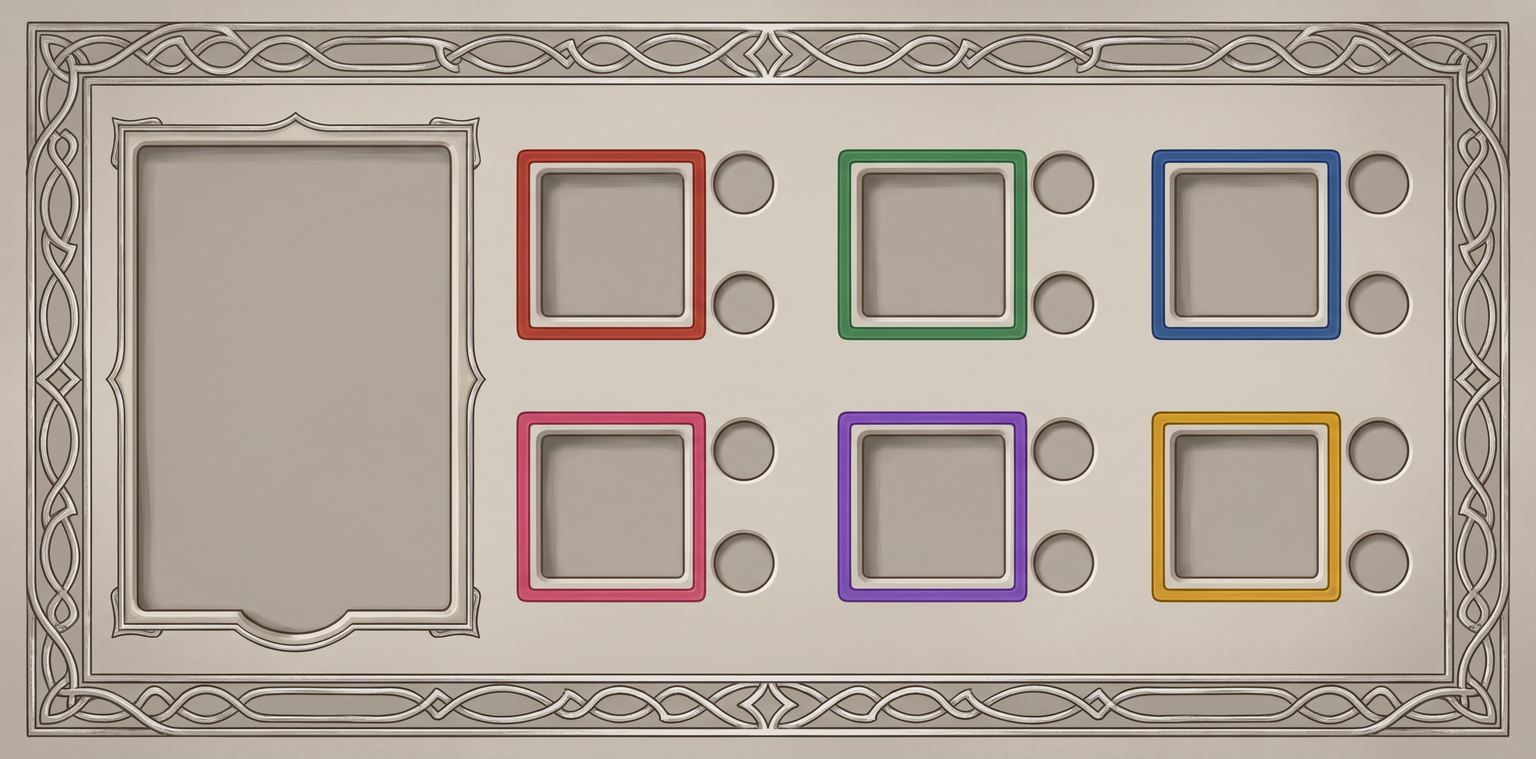
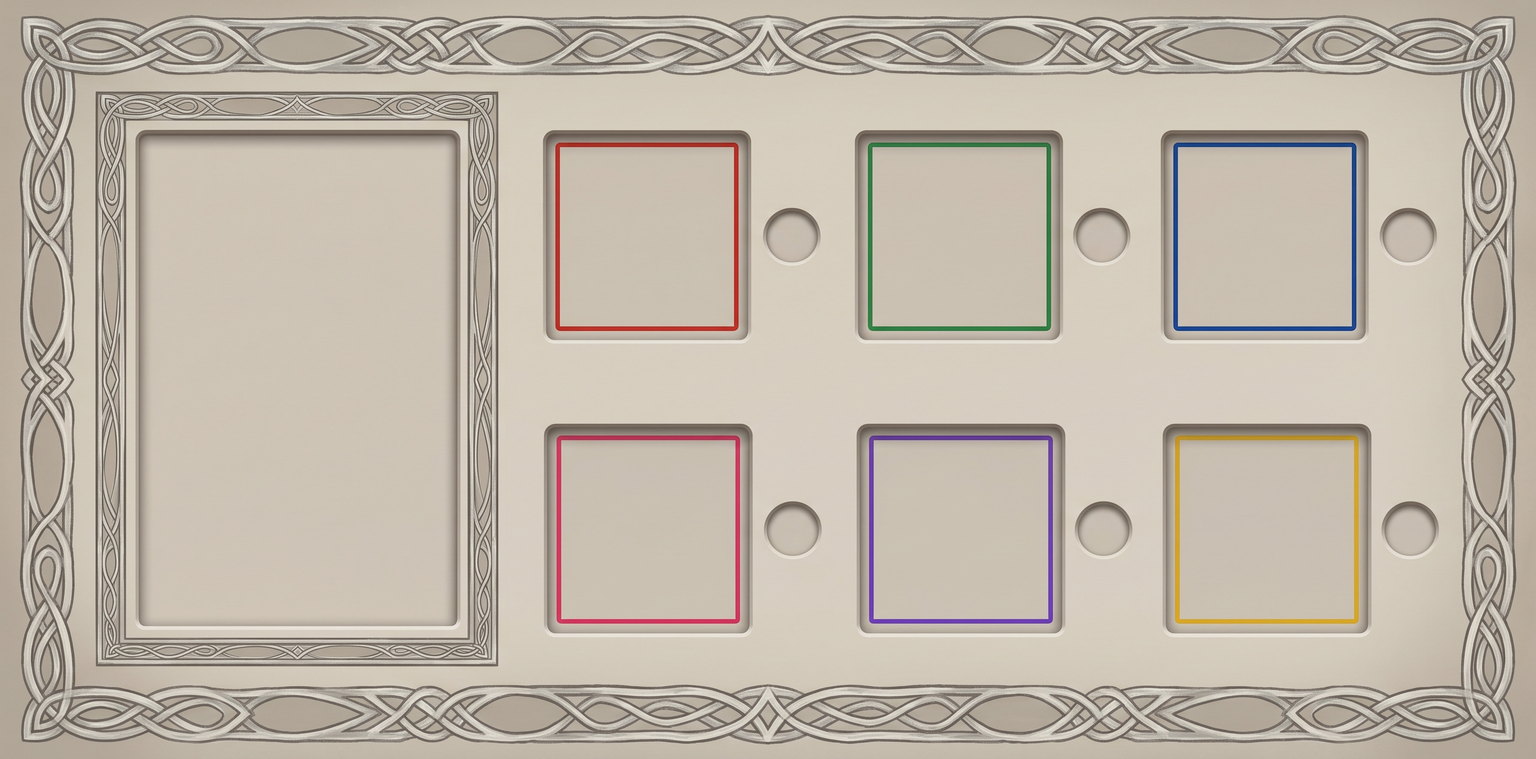
Rifà la Plancia Giocatore: icone sopra i dadi (non dentro), segnalini su/giù, scala reale
Con la board ridisegnata, le icone statistica ora stanno SOPRA ogni
casella invece che dentro: dentro ci va il dado fisico vero, e
prima l'icona sarebbe rimasta coperta. Posizioni ri-misurate per
colore sulla nuova immagine.

Scala di stampa ricavata dalle misure reali fornite (carta = formato
Poker 63,5mm, dado = 1,5cm lato) invece che da "quanto ci sta comodo
in un foglio": misurato lo slot carta sull'immagine (~650px di
larghezza) e forzato a corrispondere a 63,5mm. A questa scala la
board viene ~284,5x140,7mm — non entra in un A4 verticale ma sì in
uno ORIZZONTALE (297x210mm): 1 sola plancia a foglio invece delle 2
del giro precedente, che non teneva conto delle dimensioni fisiche
reali di carta/dado.

Aggiunta la stampa dei segnalini (da segnalini.jpg, frecce su/giù):
12 + 12, ritagliati a cerchio e dimensionati (10,5mm) per entrare nel
cerchio-slot accanto a ogni dado sulla plancia.

diff --git a/cardgen/render-plancia.js b/cardgen/render-plancia.js
@@ -1,10 +1,19 @@
 // Plancia Giocatore: un'unica board generica (non per classe — la carta Classe fisica si
 // posa nello slot a sinistra durante la partita), con le 6 caselle dado già colorate
-// dall'utente sovrapposte di icona+etichetta statistica. Le due posizioni delle caselle
-// (misurate per colore via canvas su plancia_giocatore.jpg, in ordine di lettura come
-// l'array STATS del gioco: for,int,des / pv,san,anima) e la stessa palette dei dadi usata
-// nell'app dove esiste già (pv=rosso/--bad, san=viola/--arcane — coincidenza col disegno
-// dell'utente, per int/des/for/anima non c'era una convenzione preesistente).
+// dall'utente sovrapposte di icona statistica. L'icona sta SOPRA ogni casella (non dentro):
+// dentro ci va il dado fisico vero durante la partita, e ci coprirebbe qualunque cosa
+// stampata lì sotto. Ordine di lettura griglia 2x3 = stesso ordine dell'array STATS del
+// gioco (for,int,des poi pv,san,anima) — non c'era altra convenzione preesistente che
+// coprisse tutte e sei le statistiche.
+//
+// Scala reale: derivata dalla carta Classe (che va nello slot a sinistra), non dal dado —
+// misurato lo slot carta sull'immagine (~650x981px) e forzato a 63,5mm di LARGHEZZA (formato
+// Poker): usare l'altezza invece darebbe uno slot troppo STRETTO per la carta (non entra
+// affatto), mentre scalando sulla larghezza lo slot resta solo un po' più alto del dovuto —
+// difetto minore, la carta comunque ci sta. A questa scala la board viene ~284x141mm: non
+// entra in un A4 verticale, ma un A4 ORIZZONTALE sì (297x210mm) — 1 sola plancia a foglio,
+// a differenza delle 2 del giro precedente (quello non teneva conto delle dimensioni reali
+// di carta/dado, solo di "quanto ci sta comodo in un A4").
 //
 // Uso: node render-plancia.js
 
@@ -14,47 +23,48 @@ const { pathToFileURL } = require('url');
 const { chromium } = require('playwright');
 
 const SRC_IMG = path.join(__dirname, '..', 'assets', 'ui', 'plancia_giocatore.jpg');
+const SRC_TOKENS = path.join(__dirname, '..', 'assets', 'ui', 'segnalini.jpg');
 const OUT_DIR = path.join(__dirname, '..', 'cards_final', 'plancia');
+const PRINT_DIR = path.join(__dirname, '..', 'cards_final', 'print');
 const W = 2912, H = 1440;
 
 const STAT_ICON = { for: '💪', int: '🧠', des: '🏃', pv: '❤', san: '🌀', anima: '🕯' };
-const STAT_LABEL = { for: 'Forza', int: 'Intelletto', des: 'Destrezza', pv: 'Punti Vita', san: 'Sanità Mentale', anima: 'Anima' };
-// posizione delle 6 caselle, in % dell'immagine — griglia 2x3, stesso ordine di lettura
-// dell'array STATS del gioco (for,int,des poi pv,san,anima)
+// posizione delle 6 caselle (misurate via campionamento colore su plancia_giocatore.jpg),
+// griglia 2x3 nello stesso ordine di lettura dell'array STATS del gioco
 const SLOTS = [
-  { stat: 'for',   left: 33.58, top: 19.79 },
-  { stat: 'int',   left: 54.60, top: 19.79 },
-  { stat: 'des',   left: 75.00, top: 19.79 },
-  { stat: 'pv',    left: 33.58, top: 54.17 },
-  { stat: 'san',   left: 54.60, top: 54.17 },
-  { stat: 'anima', left: 75.00, top: 54.17 },
+  { stat: 'for',   cx: 1225.5, topEdge: 248 },
+  { stat: 'int',   cx: 1818,   topEdge: 251 },
+  { stat: 'des',   cx: 2397,   topEdge: 251 },
+  { stat: 'pv',    cx: 1228.5, topEdge: 806 },
+  { stat: 'san',   cx: 1822.5, topEdge: 806 },
+  { stat: 'anima', cx: 2401.5, topEdge: 806 },
 ];
-const SLOT_W = 12.36, SLOT_H = 24.79;
+const ICON_H = 62; // altezza icona in px nativi — sta nello stretto spazio sopra la riga 1
+
+// Scala reale: vedi commento in testa al file. Slot carta misurato ~650px di larghezza,
+// forzato a corrispondere a 63,5mm (formato Poker).
+const CARD_SLOT_W_PX = 650;
+const MM_PER_PX = 63.5 / CARD_SLOT_W_PX;
+const BOARD_W_MM = W * MM_PER_PX;
+const BOARD_H_MM = H * MM_PER_PX;
 
 function frontHtml() {
   const imgUrl = pathToFileURL(SRC_IMG).href;
-  const slotsHtml = SLOTS.map(s => `
-    <div class="slot" style="left:${s.left}%; top:${s.top}%; width:${SLOT_W}%; height:${SLOT_H}%;">
-      <div class="ic">${STAT_ICON[s.stat]}</div>
-      <div class="lbl">${STAT_LABEL[s.stat]}</div>
-    </div>`).join('');
+  const iconsHtml = SLOTS.map(s => `
+    <div class="ic" style="left:${s.cx}px; bottom:${H - s.topEdge + 4}px;">${STAT_ICON[s.stat]}</div>`).join('');
   return `<!doctype html><html><head><meta charset="utf-8">
-  <link rel="stylesheet" href="https://fonts.googleapis.com/css2?family=JetBrains+Mono:wght@600;700&display=swap">
   <style>
     *{box-sizing:border-box; margin:0; padding:0;}
     body{ width:${W}px; height:${H}px; position:relative; background:#000; }
     .board{ position:absolute; inset:0; width:100%; height:100%; }
-    .slot{ position:absolute; display:flex; flex-direction:column; align-items:center; justify-content:center; }
-    .ic{ font-size:78px; line-height:1; filter:drop-shadow(0 2px 4px rgba(0,0,0,.35)); }
-    .lbl{
-      margin-top:10px; font-family:'JetBrains Mono',monospace; font-weight:700; font-size:26px;
-      letter-spacing:.03em; text-transform:uppercase; color:#3a3228; text-align:center;
-      text-shadow:0 1px 0 rgba(255,255,255,.25);
+    .ic{
+      position:absolute; transform:translateX(-50%); font-size:${ICON_H}px; line-height:1;
+      filter:drop-shadow(0 1px 3px rgba(0,0,0,.4));
     }
   </style></head>
   <body>
     <img class="board" src="${imgUrl}">
-    ${slotsHtml}
+    ${iconsHtml}
   </body></html>`;
 }
 
@@ -102,29 +112,69 @@ function backHtml() {
   </body></html>`;
 }
 
-// Foglio di stampa: 2 plance per A4 verticale (impilate), non 4 — a piena larghezza utile
-// (200mm) la plancia verrebbe 200x98,9mm (stesso rapporto 2912:1440 dell'originale): già
-// così 2 ne entrano comode (197,8mm di altezza usata su 287 disponibili), a 4 per foglio
-// ognuna sarebbe larga solo ~100mm, troppo stretta per ospitare una carta poker (63,5mm)
-// più 6 caselle dado leggibili accanto.
-const PAGE_W_MM = 210, PAGE_H_MM = 297, MARGIN_MM = 5, GAP_MM = 5;
-const BOARD_W_MM = PAGE_W_MM - 2 * MARGIN_MM;
-const BOARD_H_MM = BOARD_W_MM * (H / W);
+// Segnalini: due icone (freccia doppia su/giù) ritagliate da segnalini.jpg (2048x2048,
+// sfondo nero) — stesso riquadro di ritaglio (670px) centrato su ciascuna, per una resa
+// visiva coerente fra i due. Il cerchio-slot accanto ai dadi misura ~10,5mm di diametro
+// alla scala della board: i segnalini vanno stampati a quella stessa dimensione.
+const TOKEN_RENDER_PX = 500; // risoluzione del master, non la dimensione di stampa
+const TOKEN_CROP = 670;
+const TOKEN_MM = 10.5;
+const TOKENS = {
+  up:   { center: [664.5, 1026] },
+  down: { center: [1378.5, 1023] },
+};
 
-function printSheetHtml(imgFile) {
-  const url = pathToFileURL(imgFile).href;
-  const totalH = 2 * BOARD_H_MM + GAP_MM;
-  const topOffset = MARGIN_MM + (PAGE_H_MM - 2 * MARGIN_MM - totalH) / 2;
-  const cells = [0, 1].map(i => `
-    <div class="cell" style="top:${topOffset + i * (BOARD_H_MM + GAP_MM)}mm; left:${MARGIN_MM}mm; width:${BOARD_W_MM}mm; height:${BOARD_H_MM}mm;">
-      <img src="${url}">
-      <i class="crop tl"></i><i class="crop tr"></i><i class="crop bl"></i><i class="crop br"></i>
+function tokenHtml(key) {
+  const t = TOKENS[key];
+  const bgSize = 2048 * (TOKEN_RENDER_PX / TOKEN_CROP);
+  const bgPosX = -(t.center[0] - TOKEN_CROP / 2) * (TOKEN_RENDER_PX / TOKEN_CROP);
+  const bgPosY = -(t.center[1] - TOKEN_CROP / 2) * (TOKEN_RENDER_PX / TOKEN_CROP);
+  const url = pathToFileURL(SRC_TOKENS).href;
+  return `<!doctype html><html><head><meta charset="utf-8"><style>
+    *{margin:0;padding:0;}
+    body{ background:transparent; }
+    .token{
+      width:${TOKEN_RENDER_PX}px; height:${TOKEN_RENDER_PX}px; border-radius:50%; overflow:hidden;
+      background-image:url(${url}); background-repeat:no-repeat;
+      background-size:${bgSize}px ${bgSize}px; background-position:${bgPosX}px ${bgPosY}px;
+    }
+  </style></head><body><div class="token" id="token"></div></body></html>`;
+}
+
+function tokenSheetHtml(upFile, downFile, perType) {
+  const url1 = pathToFileURL(upFile).href, url2 = pathToFileURL(downFile).href;
+  const PAGE_W_MM = 210, PAGE_H_MM = 297, MARGIN_MM = 12, GAP_MM = 4;
+  const cols = 6;
+  const cells = [];
+  for (let i = 0; i < perType; i++) {
+    cells.push({ url: url1, col: i % cols, row: Math.floor(i / cols) });
+  }
+  const rowsUp = Math.ceil(perType / cols);
+  for (let i = 0; i < perType; i++) {
+    cells.push({ url: url2, col: i % cols, row: rowsUp + 1 + Math.floor(i / cols) });
+  }
+  const cellsHtml = cells.map(c => `
+    <div class="tok" style="left:${MARGIN_MM + c.col * (TOKEN_MM + GAP_MM)}mm; top:${MARGIN_MM + c.row * (TOKEN_MM + GAP_MM)}mm;">
+      <img src="${c.url}">
     </div>`).join('');
   return `<!doctype html><html><head><meta charset="utf-8"><style>
     *{box-sizing:border-box;margin:0;padding:0;}
     body{ background:#fff; }
     .sheet{ position:relative; width:${PAGE_W_MM}mm; height:${PAGE_H_MM}mm; }
-    .cell{ position:absolute; }
+    .tok{ position:absolute; width:${TOKEN_MM}mm; height:${TOKEN_MM}mm; border-radius:50%; box-shadow:0 0 0 .2mm #999; }
+    .tok img{ display:block; width:100%; height:100%; border-radius:50%; }
+  </style></head><body><div class="sheet">${cellsHtml}</div></body></html>`;
+}
+
+function printSheetHtml(imgFile) {
+  const url = pathToFileURL(imgFile).href;
+  const PAGE_W_MM = 297, PAGE_H_MM = 210, MARGIN_MM = 5; // A4 ORIZZONTALE: la board (~284x141mm) non entra in verticale
+  const left = (PAGE_W_MM - BOARD_W_MM) / 2, top = (PAGE_H_MM - BOARD_H_MM) / 2;
+  return `<!doctype html><html><head><meta charset="utf-8"><style>
+    *{box-sizing:border-box;margin:0;padding:0;}
+    body{ background:#fff; }
+    .sheet{ position:relative; width:${PAGE_W_MM}mm; height:${PAGE_H_MM}mm; }
+    .cell{ position:absolute; left:${left}mm; top:${top}mm; width:${BOARD_W_MM}mm; height:${BOARD_H_MM}mm; }
     .cell img{ display:block; width:100%; height:100%; }
     .crop{ position:absolute; display:block; }
     .crop.tl{ left:-3.5mm; top:0; width:3mm; height:.25mm; background:#999; }
@@ -135,50 +185,52 @@ function printSheetHtml(imgFile) {
     .crop.bl::after{ content:''; position:absolute; left:0; bottom:-3.5mm; width:.25mm; height:3mm; background:#999; }
     .crop.br{ right:-3.5mm; bottom:0; width:3mm; height:.25mm; background:#999; }
     .crop.br::after{ content:''; position:absolute; right:0; bottom:-3.5mm; width:.25mm; height:3mm; background:#999; }
-  </style></head><body><div class="sheet">${cells}</div></body></html>`;
+  </style></head><body><div class="sheet">
+    <div class="cell"><img src="${url}"><i class="crop tl"></i><i class="crop tr"></i><i class="crop bl"></i><i class="crop br"></i></div>
+  </div></body></html>`;
+}
+
+async function renderHtmlToFile(browser, html, outPath, viewport) {
+  const page = await browser.newPage({ viewport });
+  const tmp = path.join(__dirname, '_tmp-' + Date.now() + '-' + Math.random().toString(36).slice(2) + '.html');
+  fs.writeFileSync(tmp, html);
+  await page.goto('file://' + tmp);
+  await page.waitForTimeout(400);
+  await page.screenshot({ path: outPath, omitBackground: outPath.endsWith('.png') && html.includes('background:transparent') });
+  fs.unlinkSync(tmp);
+  await page.close();
 }
 
 async function main() {
   fs.mkdirSync(OUT_DIR, { recursive: true });
+  fs.mkdirSync(PRINT_DIR, { recursive: true });
   const browser = await chromium.launch({ executablePath: process.env.PW_CHROMIUM || '/opt/pw-browsers/chromium' });
-  const page = await browser.newPage({ viewport: { width: W, height: H } });
 
   const frontPngPath = path.join(OUT_DIR, 'plancia_giocatore_fronte.png');
   const backPngPath = path.join(OUT_DIR, 'plancia_giocatore_retro.png');
+  await renderHtmlToFile(browser, frontHtml(), frontPngPath, { width: W, height: H });
+  await renderHtmlToFile(browser, backHtml(), backPngPath, { width: W, height: H });
 
-  const frontPath = path.join(__dirname, '_render-plancia-fronte-' + Date.now() + '.html');
-  fs.writeFileSync(frontPath, frontHtml());
-  await page.goto('file://' + frontPath);
-  await page.waitForTimeout(500);
-  await page.screenshot({ path: frontPngPath });
-  fs.unlinkSync(frontPath);
-
-  const backPath = path.join(__dirname, '_render-plancia-retro-' + Date.now() + '.html');
-  fs.writeFileSync(backPath, backHtml());
-  await page.goto('file://' + backPath);
-  await page.waitForTimeout(500);
-  await page.screenshot({ path: backPngPath });
-  fs.unlinkSync(backPath);
+  const upPngPath = path.join(OUT_DIR, 'segnalino_su.png');
+  const downPngPath = path.join(OUT_DIR, 'segnalino_giu.png');
+  await renderHtmlToFile(browser, tokenHtml('up'), upPngPath, { width: TOKEN_RENDER_PX, height: TOKEN_RENDER_PX });
+  await renderHtmlToFile(browser, tokenHtml('down'), downPngPath, { width: TOKEN_RENDER_PX, height: TOKEN_RENDER_PX });
 
   const printPage = await browser.newPage();
-  const printDir = path.join(__dirname, '..', 'cards_final', 'print');
-  fs.mkdirSync(printDir, { recursive: true });
-
-  const frontSheetPath = path.join(__dirname, '_plancia-print-fronte-' + Date.now() + '.html');
-  fs.writeFileSync(frontSheetPath, printSheetHtml(frontPngPath));
-  await printPage.goto('file://' + frontSheetPath);
-  await printPage.pdf({ path: path.join(printDir, 'plancia_fronte.pdf'), printBackground: true, width: `${PAGE_W_MM}mm`, height: `${PAGE_H_MM}mm`, margin: { top: 0, right: 0, bottom: 0, left: 0 } });
-  fs.unlinkSync(frontSheetPath);
-
-  const backSheetPath = path.join(__dirname, '_plancia-print-retro-' + Date.now() + '.html');
-  fs.writeFileSync(backSheetPath, printSheetHtml(backPngPath));
-  await printPage.goto('file://' + backSheetPath);
-  await printPage.pdf({ path: path.join(printDir, 'plancia_retro.pdf'), printBackground: true, width: `${PAGE_W_MM}mm`, height: `${PAGE_H_MM}mm`, margin: { top: 0, right: 0, bottom: 0, left: 0 } });
-  fs.unlinkSync(backSheetPath);
+  async function pdf(html, outFile, wMm, hMm) {
+    const tmp = path.join(__dirname, '_tmp-' + Date.now() + '-' + Math.random().toString(36).slice(2) + '.html');
+    fs.writeFileSync(tmp, html);
+    await printPage.goto('file://' + tmp);
+    await printPage.pdf({ path: outFile, printBackground: true, width: `${wMm}mm`, height: `${hMm}mm`, margin: { top: 0, right: 0, bottom: 0, left: 0 } });
+    fs.unlinkSync(tmp);
+  }
+  await pdf(printSheetHtml(frontPngPath), path.join(PRINT_DIR, 'plancia_fronte.pdf'), 297, 210);
+  await pdf(printSheetHtml(backPngPath), path.join(PRINT_DIR, 'plancia_retro.pdf'), 297, 210);
+  await pdf(tokenSheetHtml(upPngPath, downPngPath, 12), path.join(PRINT_DIR, 'segnalini.pdf'), 210, 297);
 
   await browser.close();
-  console.log('Fatto: plancia_giocatore_fronte.png / plancia_giocatore_retro.png in ' + OUT_DIR);
-  console.log(`Fatto: plancia_fronte.pdf / plancia_retro.pdf (2 per foglio, ${BOARD_W_MM.toFixed(1)}x${BOARD_H_MM.toFixed(1)}mm ciascuna) in ${printDir}`);
+  console.log('Fatto: plancia_giocatore_fronte.png / _retro.png / segnalino_su.png / segnalino_giu.png in ' + OUT_DIR);
+  console.log(`Fatto: plancia_fronte.pdf / plancia_retro.pdf (1 per foglio A4 orizzontale, ${BOARD_W_MM.toFixed(1)}x${BOARD_H_MM.toFixed(1)}mm) + segnalini.pdf (12 su + 12 giu, ${TOKEN_MM}mm ciascuno) in ${PRINT_DIR}`);
 }
 
 main().catch(err => { console.error(err); process.exit(1); });
